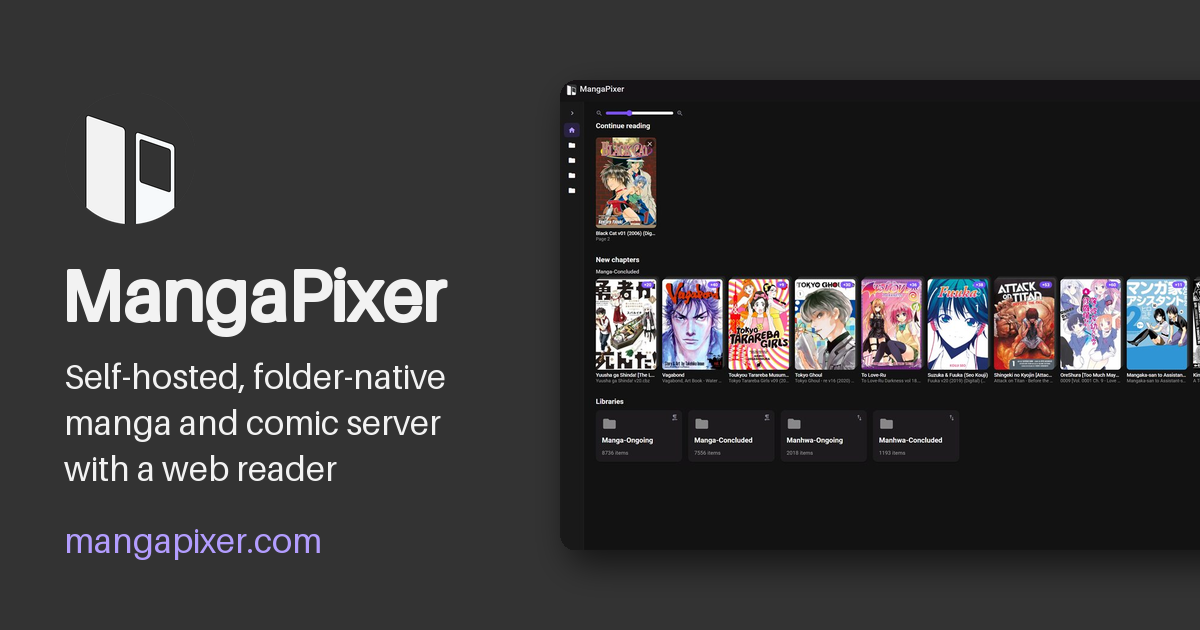
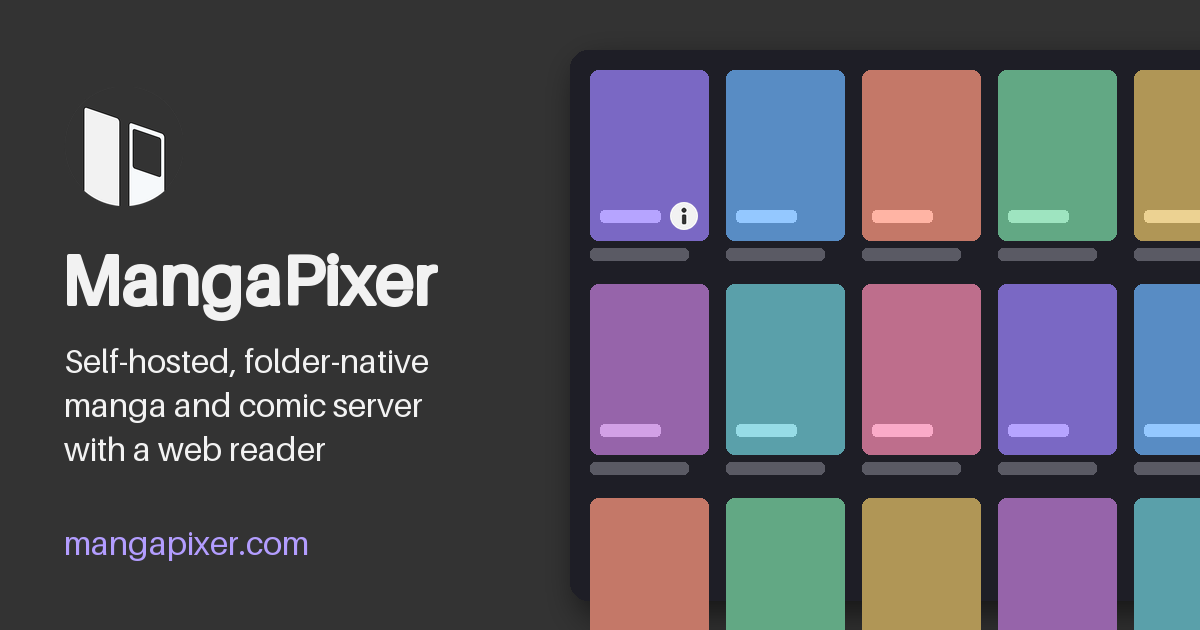
docs(site): social card without cover art (drawn library grid)
Owner decision (1.27.0 review): the social preview no longer reuses the
README home screenshot with real series covers, because link previews copy
and cache it on other sites. make_social_card.py now draws candidate C (icon,
name, tagline, a drawn library grid with one (i) badge, drawn as geometry so
it stays centred); social-card.png regenerated from it.

diff --git a/docs-site/make_social_card.py b/docs-site/make_social_card.py
@@ -1,12 +1,15 @@
 """Regenerate the social preview card (1200x630) from the existing artwork.
 
 Usage (from the repository root, with Pillow installed):
+
     python docs-site/make_social_card.py
 
 Writes docs-site/overrides/assets/social-card.png: the app icon, the name and
-the README tagline beside the desktop home screenshot. The PNG is committed,
-so the site build itself does not need Pillow. The same file can be uploaded
-as the GitHub repository's social preview image.
+the README tagline beside a DRAWN library grid (blank coloured cards, one with
+the (i) badge). The card contains no cover art on purpose (owner, 1.27.0): link
+previews copy and cache it on other sites, where publishers' covers do not
+belong. The PNG is committed, so the site build itself does not need Pillow.
+The same file can be uploaded as the GitHub repository's social preview image.
 """
 
 from __future__ import annotations
@@ -18,40 +21,64 @@ from PIL import Image, ImageDraw, ImageFilter, ImageFont
 ROOT = Path(__file__).resolve().parent.parent
 OUT = ROOT / "docs-site" / "overrides" / "assets" / "social-card.png"
 ICON = ROOT / "web" / "src" / "assets" / "icons" / "icon-circle.png"
-SHOT = ROOT / "assets" / "screenshots" / "home-desktop.jpg"
 
 WIDTH, HEIGHT = 1200, 630
 BACKGROUND = (51, 51, 51)
+PANEL = (30, 30, 38)
 TEXT = (242, 242, 242)
 ACCENT = (179, 157, 255)
+CAPTION = (90, 90, 100)
 TAGLINE = ["Self-hosted, folder-native", "manga and comic server", "with a web reader"]
+CARD_COLOURS = [(122, 104, 196), (88, 140, 196), (196, 120, 104), (98, 168, 132),
+                (176, 150, 86), (150, 100, 170), (90, 160, 170), (190, 110, 140)]
+
+
+def font(size: int) -> ImageFont.ImageFont:
+    return ImageFont.load_default(size=size)
+
+
+def draw_info_badge(card: Image.Image, cx: int, cy: int, radius: int = 14) -> None:
+    """The (i) badge as geometry (dot + stem), drawn 4x larger and scaled down so it stays centred and smooth."""
+    k = 4
+    badge = Image.new("RGBA", (2 * radius * k, 2 * radius * k), (0, 0, 0, 0))
+    d = ImageDraw.Draw(badge)
+    d.ellipse((0, 0, 2 * radius * k - 1, 2 * radius * k - 1), fill=TEXT + (255,))
+    m = radius * k
+    d.ellipse((m - 2.4 * k, m - 8.2 * k, m + 2.4 * k, m - 3.4 * k), fill=BACKGROUND + (255,))
+    d.rounded_rectangle((m - 2.0 * k, m - 1.6 * k, m + 2.0 * k, m + 8.0 * k), 1.2 * k, fill=BACKGROUND + (255,))
+    badge = badge.resize((2 * radius, 2 * radius), Image.LANCZOS)
+    card.paste(badge, (cx - radius, cy - radius), badge)
 
 
 def main() -> None:
     card = Image.new("RGB", (WIDTH, HEIGHT), BACKGROUND)
+    draw = ImageDraw.Draw(card)
 
-    # Screenshot on the right, bleeding off the right edge, with a soft shadow.
-    shot = Image.open(SHOT).convert("RGB")
-    shot_h = 470
-    shot = shot.resize((round(shot.width * shot_h / shot.height), shot_h), Image.LANCZOS)
-    x, y = 560, (HEIGHT - shot_h) // 2
+    # Drawn library grid on the right, bleeding off the right and bottom edges, with a soft shadow.
+    gx, gy = 590, 70
+    panel = (gx - 20, gy - 20, WIDTH + 40, HEIGHT - 30)
     shadow = Image.new("L", card.size, 0)
-    ImageDraw.Draw(shadow).rounded_rectangle((x + 8, y + 14, x + shot.width + 8, y + shot_h + 14), 18, fill=150)
+    ImageDraw.Draw(shadow).rounded_rectangle((panel[0] + 8, panel[1] + 14, panel[2] + 8, panel[3] + 14), 18, fill=150)
     card.paste((0, 0, 0), mask=shadow.filter(ImageFilter.GaussianBlur(16)))
-    mask = Image.new("L", shot.size, 0)
-    ImageDraw.Draw(mask).rounded_rectangle((0, 0, shot.width, shot_h), 16, fill=255)
-    card.paste(shot, (x, y), mask)
+    draw.rounded_rectangle(panel, 18, fill=PANEL)
+    cw, ch, gap = 118, 170, 18
+    for row in range(3):
+        for col in range(5):
+            x, y = gx + col * (cw + gap), gy + row * (ch + 44)
+            colour = CARD_COLOURS[(row * 5 + col) % len(CARD_COLOURS)]
+            draw.rounded_rectangle((x, y, x + cw, y + ch), 8, fill=colour)
+            draw.rounded_rectangle((x + 10, y + ch - 30, x + cw - 48, y + ch - 18), 4,
+                                   fill=tuple(min(255, v + 60) for v in colour))
+            draw.rounded_rectangle((x, y + ch + 8, x + cw - 20, y + ch + 20), 5, fill=CAPTION)
+    draw_info_badge(card, gx + cw - 10 - 14, gy + ch - 10 - 14)
 
     # Icon, name and tagline on the left.
-    icon = Image.open(ICON).convert("RGBA").resize((132, 132), Image.LANCZOS)
-    card.paste(icon, (64, 92), icon)
-    draw = ImageDraw.Draw(card)
-    title = ImageFont.load_default(size=72)
-    body = ImageFont.load_default(size=34)
-    draw.text((62, 250), "MangaPixer", font=title, fill=TEXT, stroke_width=2, stroke_fill=TEXT)
+    icon = Image.open(ICON).convert("RGBA").resize((120, 120), Image.LANCZOS)
+    card.paste(icon, (64, 86), icon)
+    draw.text((62, 236), "MangaPixer", font=font(70), fill=TEXT, stroke_width=2, stroke_fill=TEXT)
     for line_no, line in enumerate(TAGLINE):
-        draw.text((64, 356 + line_no * 46), line, font=body, fill=TEXT)
-    draw.text((64, 520), "mangapixer.com", font=body, fill=ACCENT)
+        draw.text((64, 340 + line_no * 44), line, font=font(33), fill=TEXT)
+    draw.text((64, 522), "mangapixer.com", font=font(33), fill=ACCENT)
 
     OUT.parent.mkdir(parents=True, exist_ok=True)
     card.save(OUT, optimize=True)

diff --git a/docs-site/README.md b/docs-site/README.md
@@ -27,7 +27,7 @@ The first build downloads Mermaid from the npm registry, checks its hash and cac
 | `docs-site/hooks.py` | Build-time adaptation of `docs/`: nav, outside links, images, descriptions, JSON-LD, `robots.txt`, Mermaid. |
 | `docs-site/overrides/` | Theme overrides: social and structured-data meta, the landing page, the repository link, styles, the social preview image. |
 | `docs-site/check_links.py` | Offline check of the built site. |
-| `docs-site/make_social_card.py` | Regenerates `overrides/assets/social-card.png` from the app icon and a README screenshot (needs Pillow). |
+| `docs-site/make_social_card.py` | Regenerates `overrides/assets/social-card.png` from the app icon and a drawn library grid - no cover art, since link previews copy it to other sites (needs Pillow). |
 | `docs-site/requirements.in` / `.txt` | Pinned tooling; `.txt` is the hash-locked output of `pip-compile --generate-hashes`. |
 | `docs/CNAME` | The custom domain for GitHub Pages. |
 | `.github/workflows/docs-site.yml` | Builds on `dev`, `main` and pull requests into `dev`; deploys from `main` only. |
